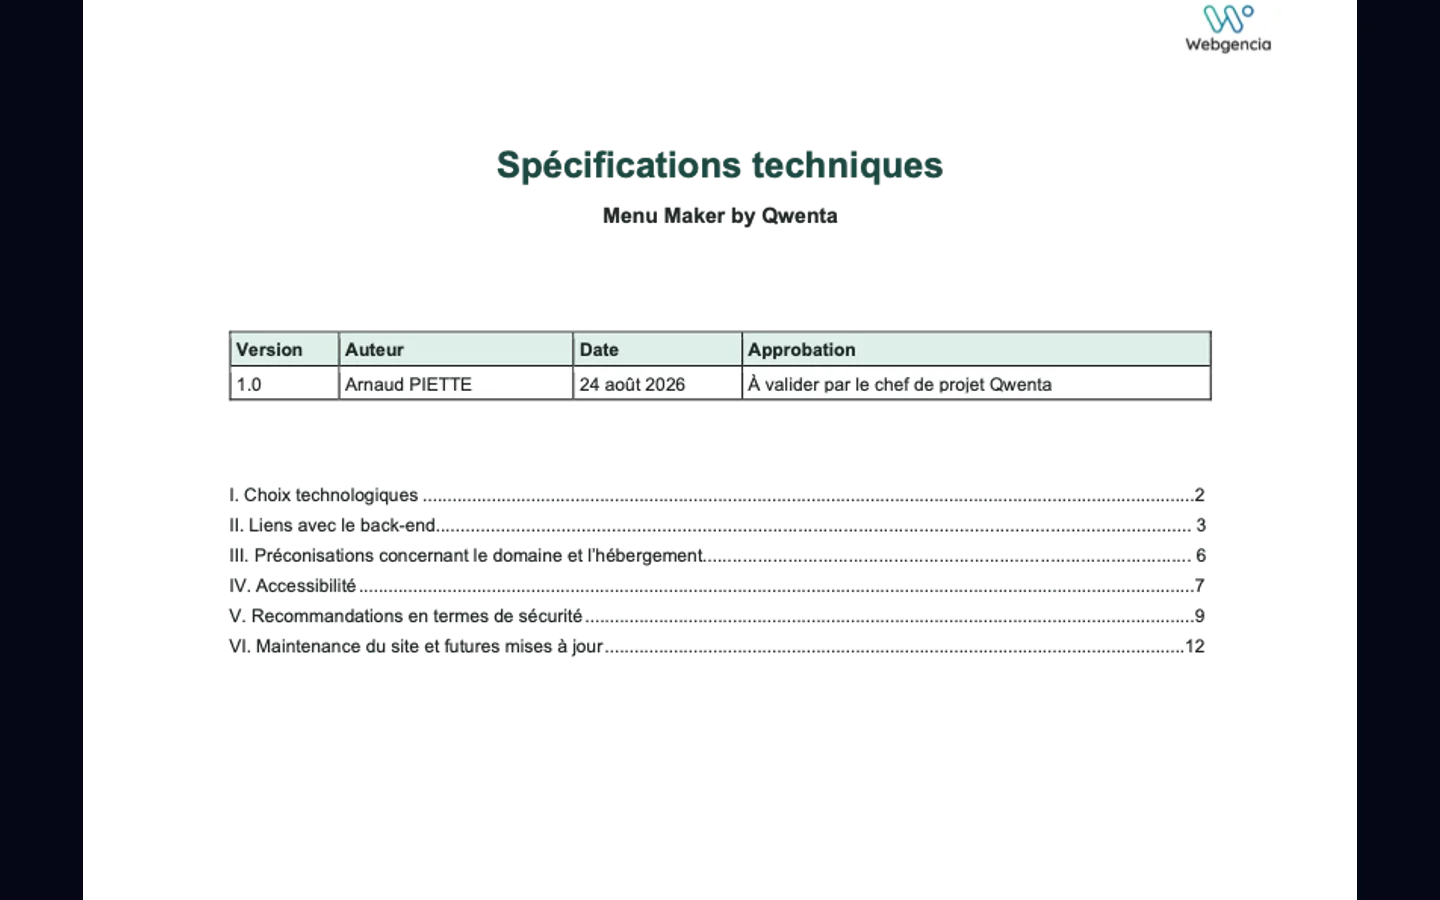
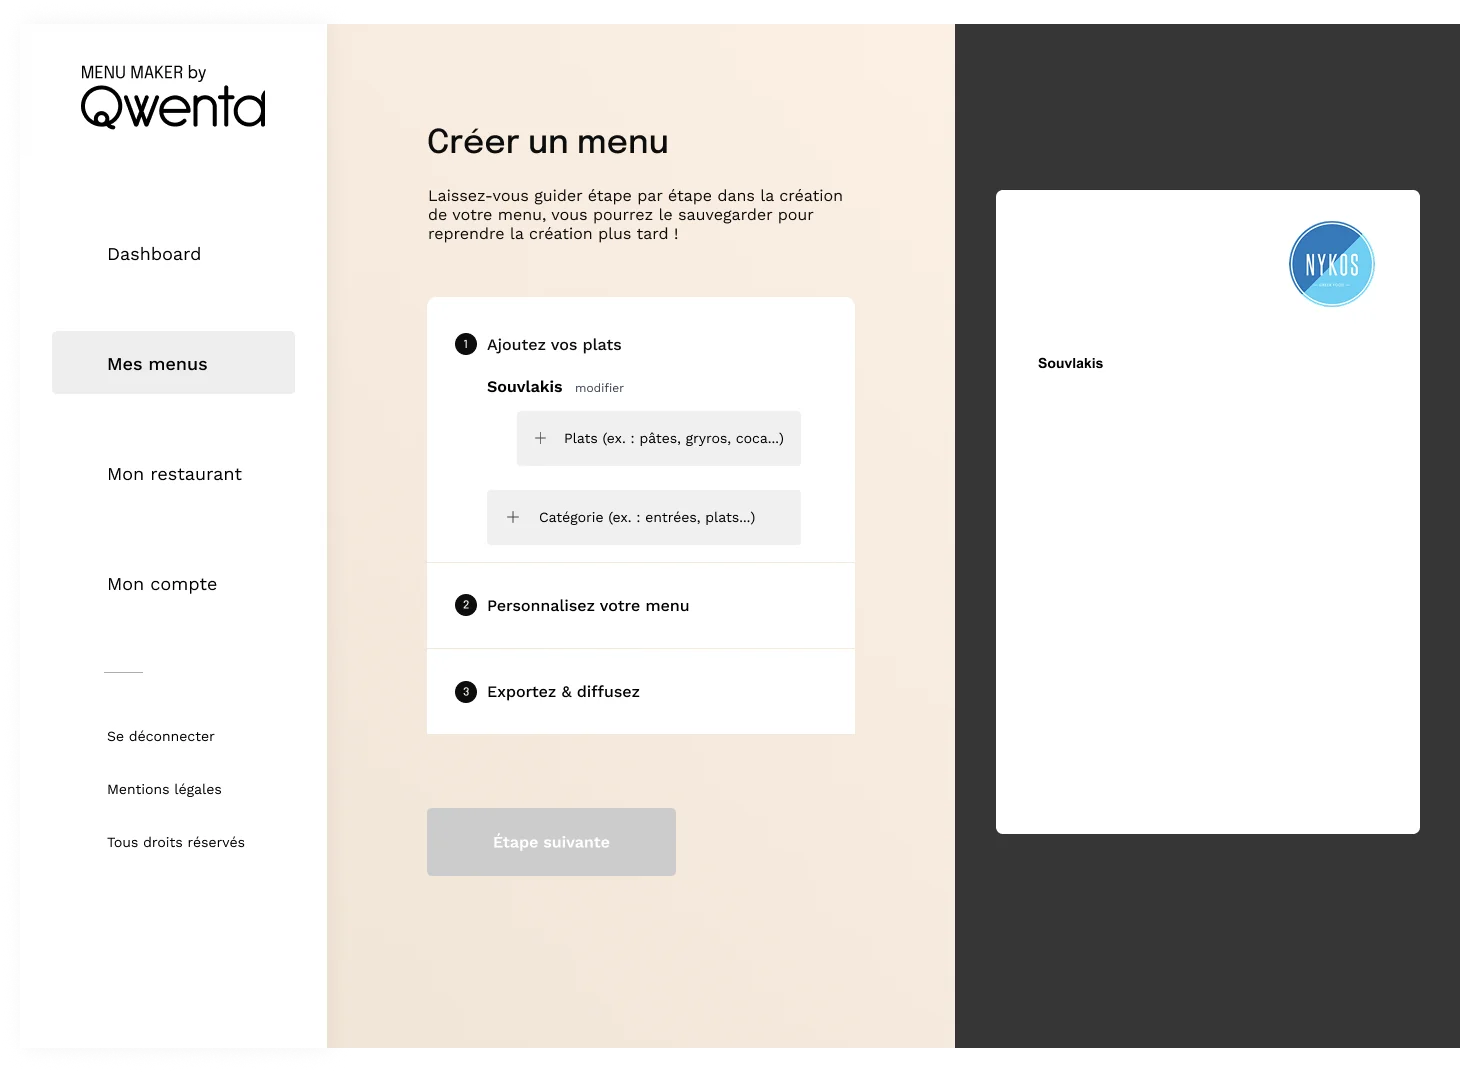
feat(portfolio): enrich Smokonomy and Qwenta visuals

diff --git a/src/data/devProjects.ts b/src/data/devProjects.ts
@@ -109,6 +109,8 @@ export const devProjects: DevProject[] = [
       { src: '/projets/dev/smokonomy/calcul-objectifs.webp', alt: 'Écran mobile de Smokonomy proposant un objectif à financer après le calcul du budget cigarettes', type: 'mobile' },
       { src: '/projets/dev/smokonomy/calcul-consommation.webp', alt: 'Écran mobile de Smokonomy permettant de renseigner la consommation et la marque de cigarettes', type: 'mobile' },
       { src: '/projets/dev/smokonomy/explorer.webp', alt: 'Écran Explorer mobile de Smokonomy avec une suggestion de voyage finançable', type: 'mobile' },
+      { src: '/projets/dev/smokonomy/dashboard.webp', alt: 'Tableau de bord Explorer mobile de Smokonomy avec une suggestion de voyage', type: 'mobile' },
+      { src: '/projets/dev/smokonomy/explorer-detail.webp', alt: 'Détail mobile d’une suggestion de voyage dans Smokonomy', type: 'mobile' },
     ],
     projectType: 'Projet personnel — sensibilisation à l’arrêt du tabac',
     // Titre de fiche spécifique à l’application personnelle Smokonomy.
@@ -411,8 +413,11 @@ export const devProjects: DevProject[] = [
     stack: ['Gestion de projet', 'Kanban', 'Spécifications techniques'],
     filters: ['gestion-projet'],
     featured: true,
-    cover: { src: '/projets/dev/qwenta/cover.webp', alt: 'Livrables de gestion de projet Menu Maker by Qwenta', type: 'document' },
-    gallery: [{ src: '/projets/dev/qwenta/detail-01.webp', alt: 'Spécifications techniques du projet Menu Maker by Qwenta', type: 'document' }],
+    cover: { src: '/projets/dev/qwenta/cover.webp', alt: 'Page d’accueil de Menu Maker by Qwenta', type: 'document' },
+    gallery: [
+      { src: '/projets/dev/qwenta/detail-01.webp', alt: 'Interface Qwenta de création de menu avec ajout de plats', type: 'desktop' },
+      { src: '/projets/dev/qwenta/detail-02.webp', alt: 'Interface Qwenta de personnalisation typographique d’un menu', type: 'desktop' },
+    ],
     projectType: 'Cadrage et gestion de projet',
     seoTitle: 'Menu Maker by Qwenta — Gestion de projet web — Arnaud Piette',
     context: 'Menu Maker est un projet de cadrage et de planification d’une application permettant à des restaurateurs de créer et gérer leurs menus en ligne. L’objectif n’était pas de développer l’application complète, mais de préparer sa réalisation en définissant les besoins, les fonctionnalités, les tâches, les choix techniques et l’organisation du projet.',
